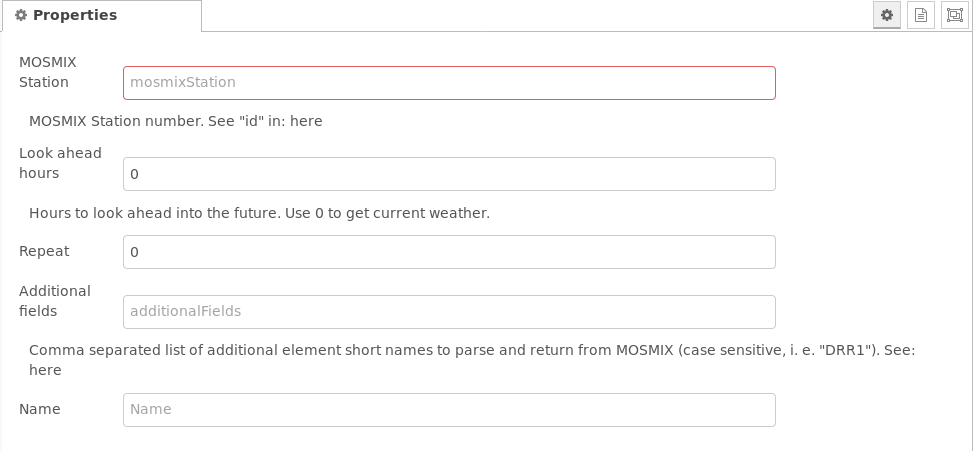
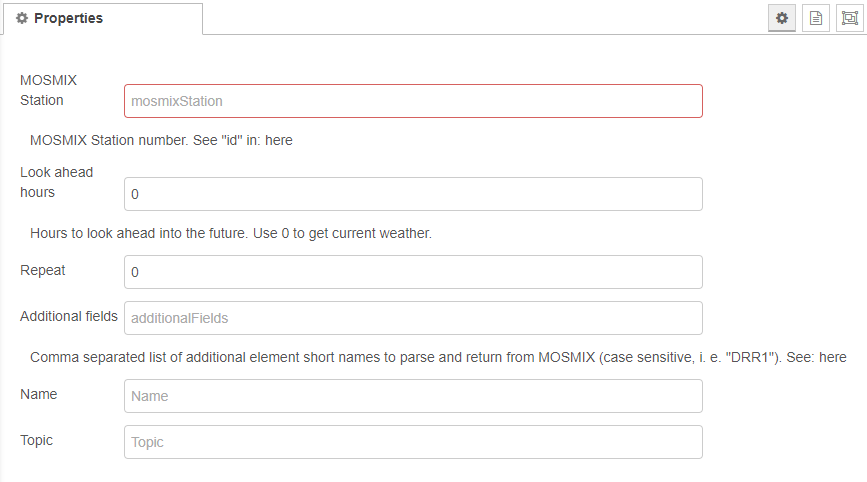
Add node configuration property to set msg.topic (#23) (#24)
- Update docs

diff --git a/dwdweather.html b/dwdweather.html
@@ -8,6 +8,7 @@
             lookAheadHours: { "value": "0", "required": true, "validate": RED.validators.number() },
             additionalFields: { "value": "" },
             repeat: { "value": "0", "validate":function(v) { return (v>=0); } },
+            topic: { "value": "" },
         },
         inputs:1,
         outputs:1,
@@ -47,6 +48,10 @@
     <div class="form-row">
         <label for="node-input-name"><i class="icon-tag"></i> <span data-i18n="dwdweather.label.name"></span></label>
         <input type="text" id="node-input-name" placeholder="Name">
+    </div>
+     <div class="form-row">
+        <label for="node-input-topic"><i class="icon-tag"></i> <span data-i18n="dwdweather.label.topic"></span></label>
+        <input type="text" id="node-input-topic" placeholder="Topic">
     </div>
 </script>
 

diff --git a/dwdweather.js b/dwdweather.js
@@ -245,6 +245,7 @@ module.exports = function(RED) {
                         forecastDate.setTime(forecastDate.getTime() + node.lookAhead);
                     }
                     try {
+                        msg.topic = config.topic;
                         msg.payload = {
                             "station": weatherForecast[node.mosmixStation].description,
                             "tempc": getForecastedTemperature(node.mosmixStation, forecastDate),
